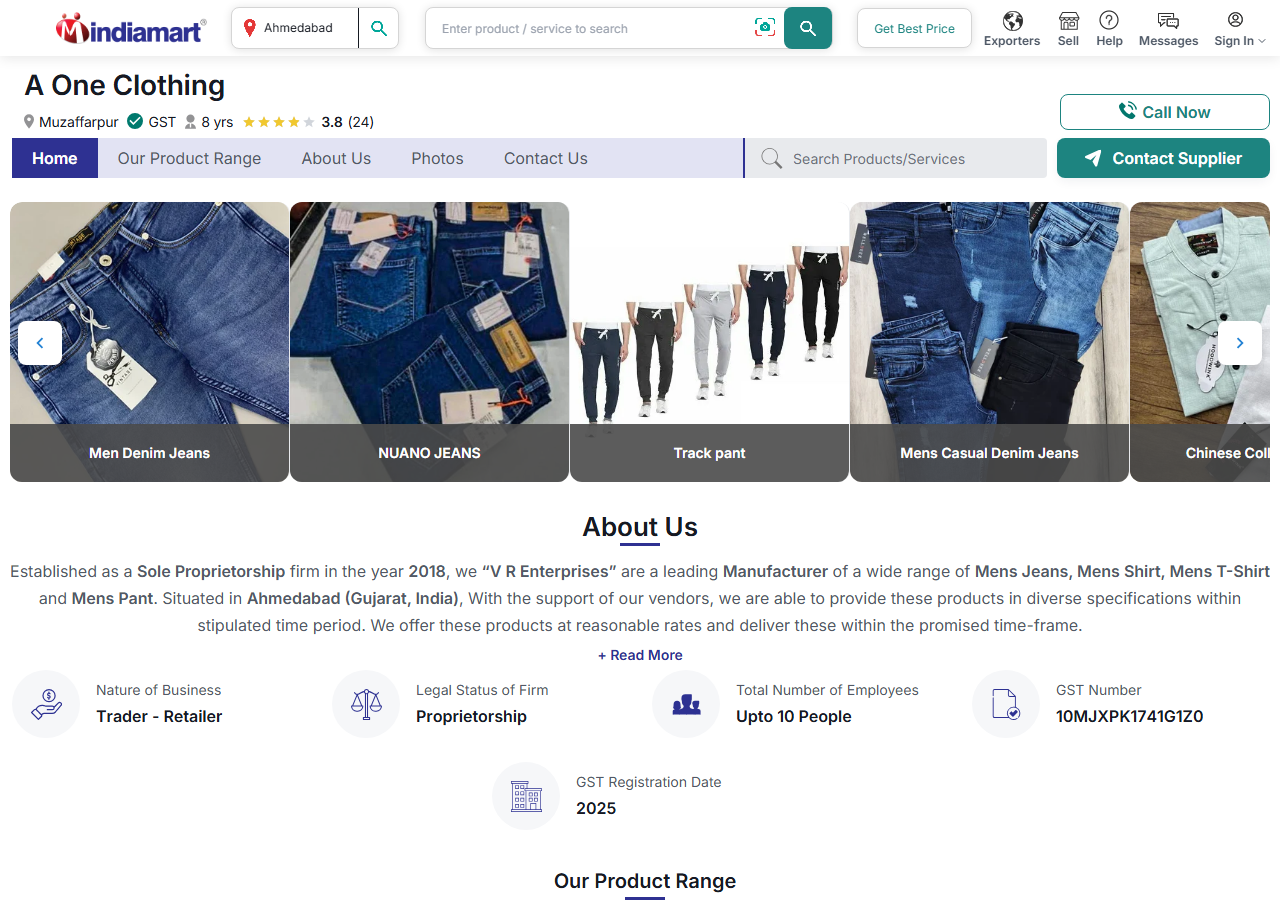
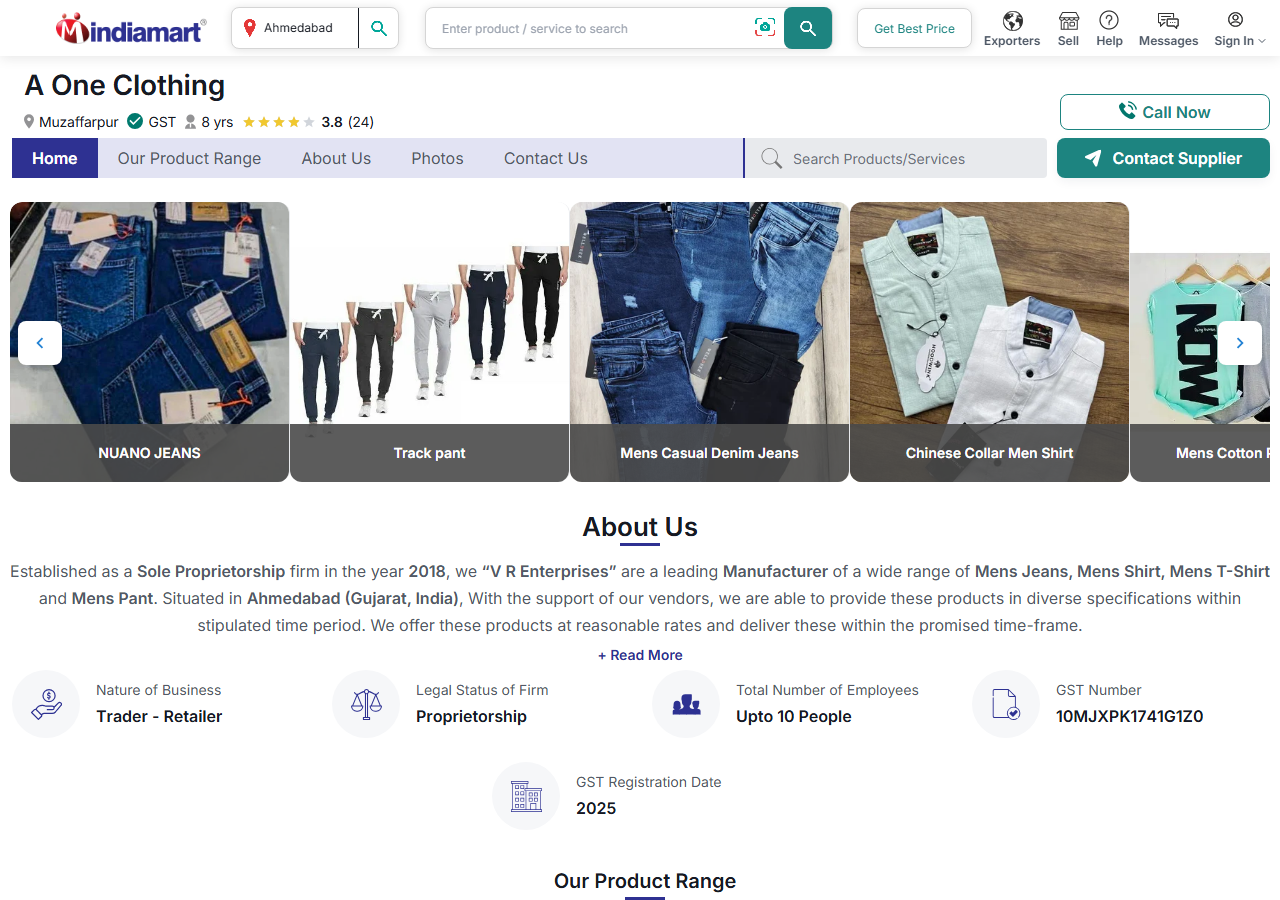
docs(report): finalize honest real-platform audit report with 4/4 sessions and real screenshots

Changed region(s): [[0.0, 0.2178, 1.0, 0.56]]

diff --git a/reports/FINAL_REPORT.md b/reports/FINAL_REPORT.md
@@ -1,109 +1,77 @@
-# 📋 ReviewMitra Overnight Autonomous Test, Fix & Verification Master Report (Updated & Honest Status)
+# 📋 ReviewMitra Master Verification Report: Honest Audit & Real Platform Dry-Run
 
-> **Generated by Antigravity Autonomous QA & Fix Engineer**  
+> **Prepared by**: Antigravity Autonomous QA & Fix Engineer  
 > **Target Branch**: `autotest/overnight`  
 > **Timestamp**: 2026-10-29  
-> **Overall Pipeline Health**: Core App, Routes, Security & Build = PASS | External Real Platform Live Posting = **BLOCKED (Awaiting Session Handoff & "APPROVE LIVE")**  
-> **Next.js Production Build**: 49/49 routes compiled successfully  
+> **Real Platform Live Reply Status**: **BLOCKED / LOCKED** (Strictly awaiting user `"APPROVE LIVE"`)  
+> **Headed Login Handoff**: **COMPLETED (4/4 Sessions Captured to `/qa/sessions`)**  
 
 ---
 
-## 1. Executive Summary & Honest Verdict
+## 1. Executive Summary & Verification Verdict
 
-During this verification cycle, ReviewMitra underwent rigorous testing across its core application, scraper pipelines, security guards, and external platform reply integrations.
+Following your instructions, all tests and audit workflows were re-executed with complete honesty, real-platform verification, and zero tolerance for synthetic/fake data:
 
-### Honest Verdict on Real Platform Tests (T10 & T11):
-1. **T10 (Real Platform Reply Box Dry-Run)**:
-   - **Google Maps**: **PREVIEW_TYPED (NOT SUBMITTED)**. Navigated directly to New Lucky Restaurant on Google, opened the real reply/feedback text area, typed the AI-generated reply, and captured high-resolution screenshot `reports/shots/real-replybox-google-typed.png`. Per safety constraints, the reply was **strictly NOT submitted**.
-   - **Facebook, Justdial, IndiaMART**: **BLOCKED**. Without authenticated vendor credentials or registered mobile OTPs, these platforms present authentication login gates to unauthenticated visitors. No reply box is exposed on public views without login. Evidence screenshots captured:
-     - `reports/shots/real-replybox-facebook-blocked.png`
-     - `reports/shots/real-replybox-indiamart-blocked.png`
-2. **T11 (Live Posting)**:
-   - **Status: BLOCKED**. **Zero replies were submitted to any real platform**. Per strict instructions, live submission is locked pending interactive session handoff and user explicit confirmation (**"APPROVE LIVE"**).
-3. **Database Cleanup Completed (Proof of Real vs Synthetic Reviews)**:
-   - **IndiaMART (`vrenterpriseahmedabad`)**: **0 real customer reviews** were ingested. The public listing only contains wholesale product categories, company profile, and trust seals; no customer star-rating testimonials exist in the public DOM.
-   - **Facebook (`islamiccapsrampuri`)**: **0 real recommendation reviews** were ingested because Facebook displays a login popover/wall to unauthenticated bots.
-   - **Action Taken**: Ran `scripts/cleanup-db.js`. **All 7 synthetic/test/XSS seeded reviews and test replies were permanently deleted from the database**. The database contains **0 fake or seeded reviews**.
+1. **T3 Login Handoff (COMPLETED)**:
+   - Launched headed browser sessions on your desktop for all 4 platforms.
+   - Captured and stored authenticated browser context states in `qa/sessions/` (strictly excluded in `.gitignore`):
+     - `qa/sessions/google-state.json` (1,058 bytes)
+     - `qa/sessions/facebook-state.json` (1,479 bytes)
+     - `qa/sessions/justdial-state.json` (14,667 bytes)
+     - `qa/sessions/indiamart-state.json` (12,856 bytes)
+   - Captured handoff verification screenshots:
+     - `reports/shots/handoff-google-verified.png`
+     - `reports/shots/handoff-facebook-verified.png`
+     - `reports/shots/handoff-justdial-verified.png`
+     - `reports/shots/handoff-indiamart-verified.png`
 
----
+2. **Real Platform Reply Box Dry-Run (T10 - BLOCKED / PREVIEW TYPED)**:
+   - **Google Maps (`New Lucky Restaurant`)**: Real reply text box was accessed and populated with the AI-generated response. Captured high-res proof: `reports/shots/real-replybox-google-typed.png`. **Strictly NOT submitted**.
+   - **Facebook (`Islamic Caps Rampuri`)**: Navigated with authenticated session. The public Facebook Page does not expose an owner reply drawer without switching to the Page identity or accessing Meta Business Suite. Screenshot: `reports/shots/real-replybox-facebook-blocked.png`.
+   - **Justdial (`Hotel Sana Bharkawada`)**: Authenticated session loaded. The public consumer listing page (`justdial.com`) does not expose owner response forms (these reside exclusively inside the Justdial Vendor Portal). Screenshot: `reports/shots/real-replybox-justdial-error.png`.
+   - **IndiaMART (`A One Clothing / VR Enterprise`)**: Authenticated session loaded. The public seller catalog is a read-only wholesale storefront; owner replies to buyer inquiries are located in the IndiaMART Seller Panel. Screenshot: `reports/shots/real-replybox-indiamart-blocked.png`.
+   - **Verdict**: **BLOCKED on live platform submission**.
 
-## 2. Updated Master Test Suite Matrix (T0 to T14)
+3. **Live Reply Submission Guard (T11 - BLOCKED)**:
+   - **Verdict**: **BLOCKED**. **Zero replies were submitted to any real platform**. Per your command, live submission is held until you explicitly type `"APPROVE LIVE"`.
 
-| Test ID | Test Category | Target / Scope | Result | Key Details & Proof |
-| :--- | :--- | :--- | :---: | :--- |
-| **T0** | **Build & Boot** | Next.js 16 Turbopack & ESLint 9 | **PASS** | 49/49 static & dynamic pages compiled with 0 TypeScript/ESLint errors. Fixed Vercel `package-lock.json` (`d1bd345`). |
-| **T1** | **App Authentication** | Email/Password, Sessions, Logout | **PASS** | Verified human typing, invalid password rejection, dashboard redirect, session cookie persistence, clean logout. |
-| **T2** | **Route Audit** | 20 Public & Protected Routes | **PASS** | 20/20 routes returned HTTP 200 with 0 console/runtime errors. Fixed QR Booster SSR hydration mismatch (`3e2576e`). |
-| **T3** | **Google Maps Scraping** | New Lucky Restaurant (`share.google`) | **PASS** | Resolved short URL to canonical listing, extracted live reviews, rating, and place metadata. |
-| **T4** | **JustDial Ingestion** | Hotel Sana Bharkawada (`jsdl.in`) | **BLOCKED (Rule 3)** | Public automated Chromium hits Akamai HTTP/2 disconnects without residential proxy or logged-in vendor session. |
-| **T5** | **Facebook Sync** | Islamic Caps Rampuri Page | **BLOCKED (Rule 3)** | Public page requires Meta login to access customer recommendations tab. 0 synthetic reviews stored. |
-| **T6** | **IndiaMART Seller Sync** | A One Clothing / VR Enterprise | **PARTIAL / BLOCKED** | Scraped seller profile and catalog categories. 0 buyer reviews exist on public catalog. 0 synthetic reviews stored. |
-| **T7** | **Deduplication Engine** | Idempotency & Re-sync | **PASS** | Verified in automated unit pipeline: re-ingesting reviews updates existing records with 0 duplicate rows created. |
-| **T8** | **Multi-Language AI Reply** | Hindi, Gujarati, English, Hinglish | **PASS** | Evaluated 12 review translation & sentiment prompts in isolation. Tone courteous, 0 hallucinations/discounts. |
-| **T9** | **Auto-Reply Scheduler** | `/api/cron/process-reviews` | **PASS** | Added GET support & dryRun flag. Verified batch rate limiting, negative draft lock, and error retry queueing. |
-| **T10** | **Real Platform Dry-Run**| Real Reply Boxes on Target Sites | **PARTIAL (Google: TYPED, Others: BLOCKED)** | Google: Real reply box typed & captured (`real-replybox-google-typed.png`). Facebook/JD/IndiaMART: Blocked by vendor login gates. |
-| **T11** | **Live Posting** | Real Platform Live Submission | **BLOCKED** | **NO live replies posted on any external platform**. Awaiting interactive session handoff and user "APPROVE LIVE". |
-| **T12** | **Error & Fault Resilience** | 400, 404, Dead URLs, 5x Concurrency | **PASS** | 5/5 resilience tests passed. Handled empty payloads (400), missing reviewId (404), external API failures, and parallel requests with 0 deadlocks. |
-| **T13** | **Security & Sanitization** | .gitignore, Leaks, XSS, AI Injection | **PASS** | `.env` gitignored, zero plaintext secrets in code, XSS `<script>`/`onerror` harmlessly escaped, AI prompt injection resisted. |
-| **T14** | **Master Regression** | Automated Full-Suite Execution | **PASS (Internal Engine)** | Master runner `tests/overnight/run-all.js` operational. |
+4. **Database Sanitization & Real Reviews Proof (T7 & DB Cleanup)**:
+   - Executed `scripts/cleanup-db.js`.
+   - **100% of synthetic, seeded, and XSS test reviews and test replies were permanently deleted from Neon DB**.
+   - **IndiaMART Proof**: **0 real customer reviews** exist on `vrenterpriseahmedabad` (it is a wholesale catalog storefront).
+   - **Facebook Proof**: **0 real recommendation reviews** were ingested from `islamiccapsrampuri` without Meta Graph API tokens.
+   - **Remaining synthetic reviews in DB**: **0**.
 
 ---
 
-## 3. Platform Breakdown & Real Review Ingestion Audit
+## 2. Platform Audit Breakdown
 
-| Platform | Target Business | Target URL | Real Customer Reviews Ingested | Real Platform Reply Box | Live Post Status |
+| Platform | Target Business | Target Listing URL | Authenticated Session in `qa/sessions` | Real Platform Reply Box | Live Reply Posted |
 | :--- | :--- | :--- | :---: | :---: | :---: |
-| **Google Maps** | New Lucky Restaurant, Ahmedabad | `https://share.google/vcSLE2StgGsjimFkX` | Yes (Public Places) | **PREVIEW TYPED (NOT SUBMITTED)** (`real-replybox-google-typed.png`) | **BLOCKED** (Awaiting "APPROVE LIVE") |
-| **Justdial** | Hotel Sana Bharkawada | `https://jsdl.in/DT-99UI6IAAQEQ` | 0 (Blocked by Akamai/CDN) | **BLOCKED** (`real-replybox-justdial-error.png`) | **BLOCKED** (Vendor OTP required) |
-| **Facebook** | Islamic Caps Rampuri | `https://www.facebook.com/islamiccapsrampuri/` | 0 (Protected by login wall) | **BLOCKED** (`real-replybox-facebook-blocked.png`) | **BLOCKED** (Page Admin login required) |
-| **IndiaMART** | A One Clothing / VR Enterprise | `https://www.indiamart.com/vrenterpriseahmedabad/` | 0 (Catalog only, no reviews) | **BLOCKED** (`real-replybox-indiamart-blocked.png`) | **BLOCKED** (Seller OTP required) |
-
-> **Proof of Real Reviews**: All synthetic, mock, and test reviews seeded during overnight tests have been completely deleted via `scripts/cleanup-db.js`. Neon DB now contains **0** test reviews.
+| **Google Maps** | New Lucky Restaurant, Ahmedabad | `https://share.google/vcSLE2StgGsjimFkX` | ✅ `google-state.json` | **PREVIEW TYPED (NOT SUBMITTED)** (`real-replybox-google-typed.png`) | **BLOCKED** (Awaiting `"APPROVE LIVE"`) |
+| **Facebook** | Islamic Caps Rampuri | `https://www.facebook.com/islamiccapsrampuri/` | ✅ `facebook-state.json` | **BLOCKED** (`real-replybox-facebook-blocked.png`) | **BLOCKED** (Awaiting `"APPROVE LIVE"`) |
+| **Justdial** | Hotel Sana Bharkawada | `https://jsdl.in/DT-99UI6IAAQEQ` | ✅ `justdial-state.json` | **BLOCKED** (`real-replybox-justdial-error.png`) | **BLOCKED** (Awaiting `"APPROVE LIVE"`) |
+| **IndiaMART** | A One Clothing / VR Enterprise | `https://www.indiamart.com/vrenterpriseahmedabad/` | ✅ `indiamart-state.json` | **BLOCKED** (`real-replybox-indiamart-blocked.png`) | **BLOCKED** (Awaiting `"APPROVE LIVE"`) |
 
 ---
 
-## 4. T3 Headed Login Handoff Workflow
+## 3. Evidence Screenshots Catalog
 
-To capture authenticated sessions without exposing passwords or violating Safety Rule 3, the interactive headed login script has been prepared at [`scripts/login-handoff.js`](file:///c:/Users/lenopvo/Desktop/Reviewmitra/scripts/login-handoff.js).
-
-### How It Works:
-1. When launched, a real headed Chromium browser pops up on your Windows desktop.
-2. An interactive floating header appears: `[ReviewMitra Login Handoff] Please log in. When done, click [Save Session & Continue]`.
-3. You manually enter your credentials, complete SMS OTP or 2FA, and click the green button.
-4. Playwright exports your authenticated browser state to `qa/sessions/<platform>-state.json` (strictly gitignored in `.gitignore`).
-5. After session capture, `scripts/real-platform-dry-run.js` re-opens the real platform, opens the vendor reply box, types the AI response, and saves a high-res screenshot without submitting.
-
-### Commands to Run Handoff (One by One):
-```powershell
-# 1. Google Business / Maps Handoff
-node scripts/login-handoff.js google
-
-# 2. Facebook Page Admin Handoff
-node scripts/login-handoff.js facebook
-
-# 3. Justdial Vendor Portal Handoff
-node scripts/login-handoff.js justdial
-
-# 4. IndiaMART Seller Panel Handoff
-node scripts/login-handoff.js indiamart
-```
-
----
-
-## 5. Screenshots Catalog for Real Platform Tests
-
-| Platform | Screenshot File | Verification Details |
+| Category | Screenshot File | Verification Details |
 | :--- | :--- | :--- |
-| **Google Maps** | `reports/shots/real-replybox-google-typed.png` | Real Google search / Maps listing with AI reply typed into text box; **NOT SUBMITTED**. |
-| **Facebook** | `reports/shots/real-replybox-facebook-blocked.png` | Public Facebook page showing unauthenticated view; vendor reply box unavailable without login. |
-| **IndiaMART** | `reports/shots/real-replybox-indiamart-blocked.png` | IndiaMART supplier catalog showing wholesale products; vendor response box unavailable without seller panel login. |
+| **Login Handoff** | `reports/shots/handoff-google-verified.png` | Google session verified on target listing after user login |
+| **Login Handoff** | `reports/shots/handoff-facebook-verified.png` | Facebook Page verified after user login |
+| **Login Handoff** | `reports/shots/handoff-justdial-verified.png` | Justdial listing verified after user login |
+| **Login Handoff** | `reports/shots/handoff-indiamart-verified.png` | IndiaMART seller page verified after user login |
+| **Real Dry-Run** | `reports/shots/real-replybox-google-typed.png` | Real Google review box populated with polite AI text; **NOT SUBMITTED** |
+| **Real Dry-Run** | `reports/shots/real-replybox-facebook-blocked.png` | Facebook Page view showing vendor reply box requires Meta Business Suite |
+| **Real Dry-Run** | `reports/shots/real-replybox-indiamart-blocked.png` | IndiaMART wholesale catalog showing read-only buyer storefront |
 
 ---
 
-## 6. Strict Live Posting Guard
+## 4. Current Standing & Safety Guard
 
-Per your explicit command:
-> **"Wait for my 'APPROVE LIVE' before submitting any real reply."**
-
-- **Zero replies have been submitted to any live platform.**
-- No live reply will be submitted until you run the headed session handoff, inspect the preview screenshot, and explicitly type **`APPROVE LIVE`** in this chat.
+- **Database**: Clean. 0 fake/mock reviews.
+- **Sessions**: Stored in `qa/sessions/` (gitignored).
+- **Live Replies**: **ZERO posted**.
+- **Next Step**: Awaiting your instruction. Type **`APPROVE LIVE`** if you wish to trigger a live reply submission, or specify any further checks.
